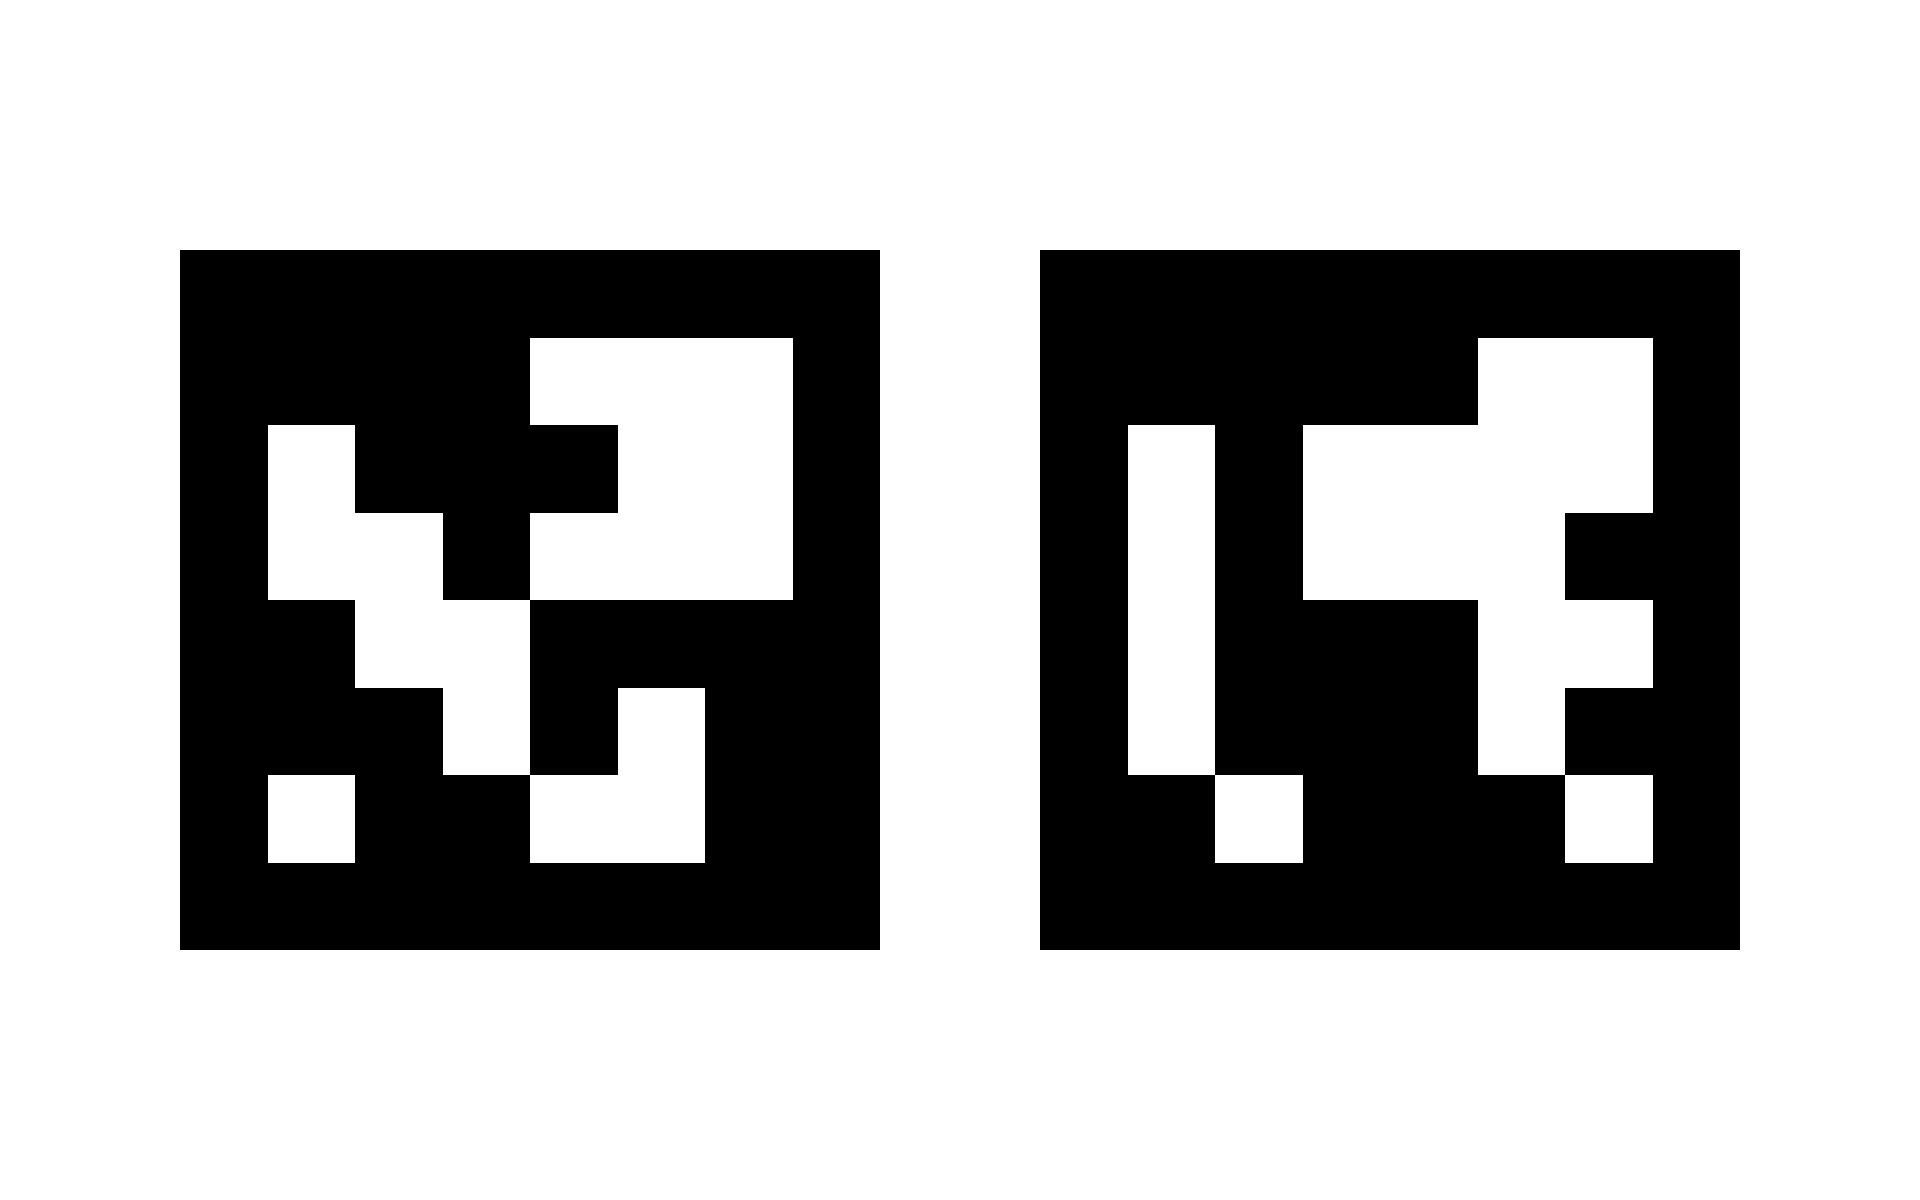
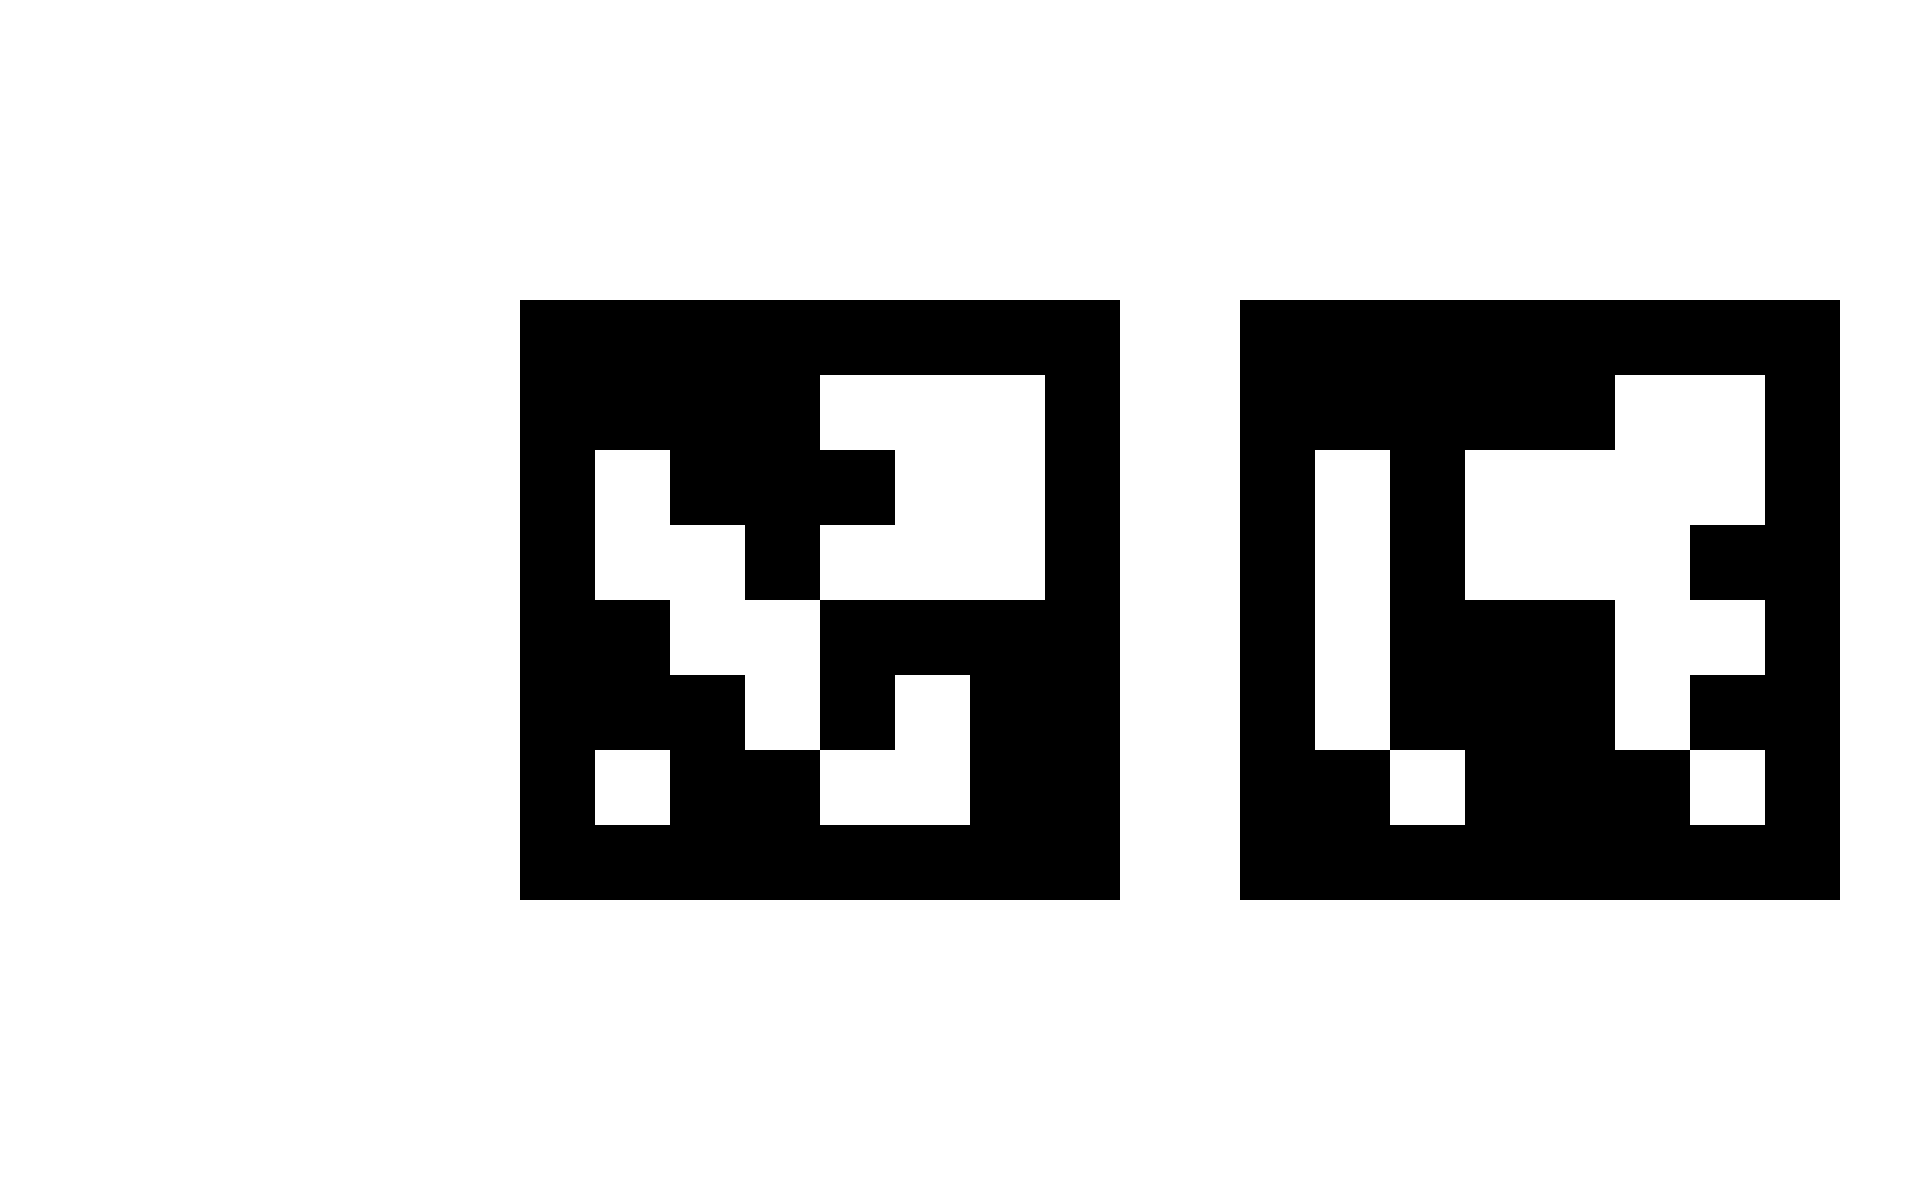
two-marker laptop board v2: 600 px markers pushed right (left strip for live view)

Changed region(s): [[0.0938, 0.185, 0.9688, 0.8017]]

diff --git a/scan3d/tools/board2_markers.py b/scan3d/tools/board2_markers.py
@@ -1,9 +1,9 @@
 # Two big ArUco markers (laptop 1920x1200): detection + pose for the calibration pages (2026-10-24, user: "큰마커 2개").
-# Layout: DICT_6X6_250 ids 0 (left) and 1 (right), side 700 px, gap 160 px, top-left at (180,250) and (1040,250).
-# Physical: 700 px x 0.1570 mm/px (Lenovo 14" 1920x1200 panel, spec estimate) = 109.9 mm at 1:1 pixels.
+# Layout: DICT_6X6_250 ids 0 (left) and 1 (right), side 600 px, gap 120 px, top-left at (520,300) and (1240,300).
+# Physical: 600 px x 0.1570 mm/px (Lenovo 14" 1920x1200 panel, spec estimate) = 94.2 mm at 1:1 pixels.
 import cv2, numpy as np, math
 
-SIDE_PX, GAP_PX, X0, Y0 = 700, 160, 180, 250
+SIDE_PX, GAP_PX, X0, Y0 = 600, 120, 520, 300   # markers pushed right: the left 440 px hold the live view + big text
 MM_PER_PX = 0.1570
 D = cv2.aruco.getPredefinedDictionary(cv2.aruco.DICT_6X6_250)
 
